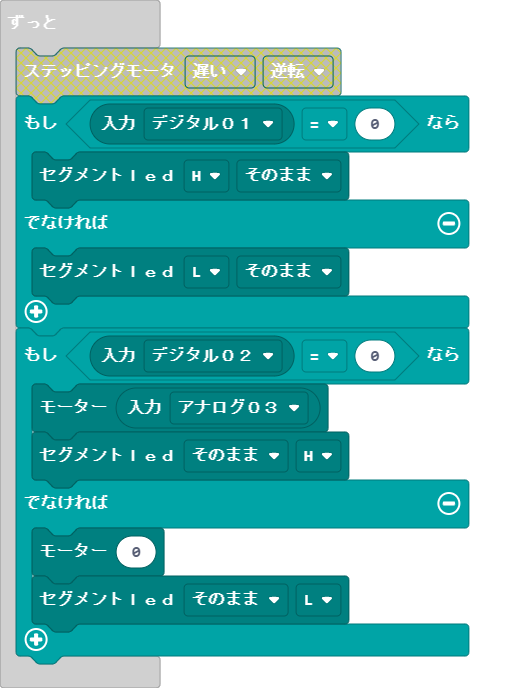
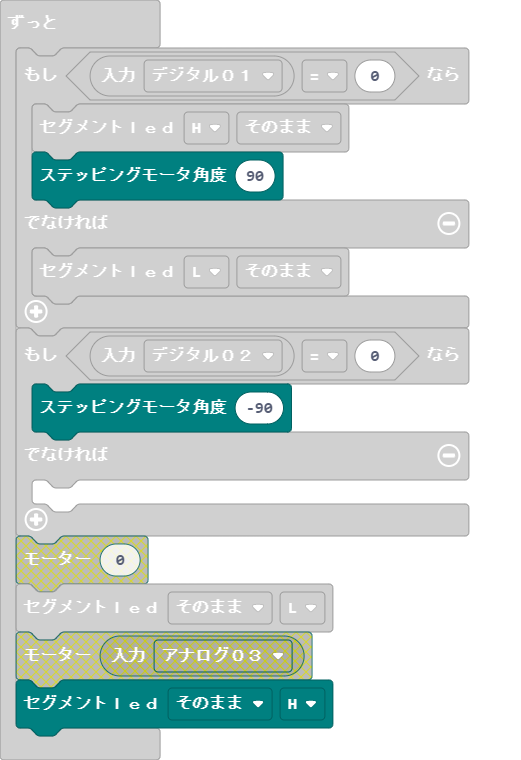
ステッピングモータ角度ブロックを作成

diff --git a/custom.ts b/custom.ts
@@ -212,18 +212,19 @@ namespace custom {
             }
             
 		}
-    }        //% block
+    }        
+    //% block
     export function ステッピングモータ角度(deg: number): void {
         let value
-        let d
+        let n
         if (deg > 0) {
             value = 128
-            d = 1
+            n = deg / 1.25
         } else {
             value = 16
-            d = -1
+            n = -deg / 1.25
         }
-        let n = deg / 3
+
         let i = 1
         for (let j = 0; j < n; j++) {
             pins.digitalWritePin(DigitalPin.P15, 0)
@@ -235,7 +236,7 @@ namespace custom {
             }
             pins.digitalWritePin(DigitalPin.P15, 1)
             i = 1
-            if (d == 1) {
+            if (deg > 0) {
                 value /= 2
                 if (value < 16) {
                     value = 128

diff --git a/main.ts b/main.ts
@@ -2,14 +2,14 @@ custom.initialize()
 basic.forever(function () {
     if (custom.入力(io.digital01) == 0) {
         custom.セグメントＬＥＤ(LED_view.Hi, LED_view.pre)
+        custom.ステッピングモータ角度(90)
     } else {
         custom.セグメントＬＥＤ(LED_view.Low, LED_view.pre)
     }
     if (custom.入力(io.digital02) == 0) {
-        custom.モーター(custom.入力(io.analog03))
+        custom.ステッピングモータ角度(-90)
         custom.セグメントＬＥＤ(LED_view.pre, LED_view.Hi)
     } else {
-        custom.モーター(0)
         custom.セグメントＬＥＤ(LED_view.pre, LED_view.Low)
     }
 })
